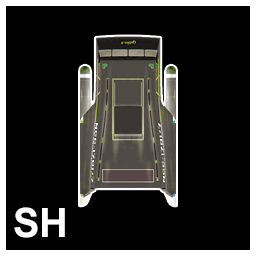
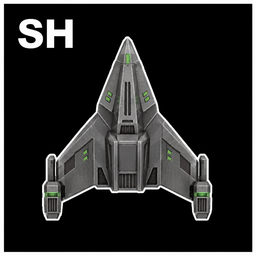
Every Klingon warship has its own counter
The E3 and E4 escort families and the G2 Police Cutter — the seven hulls
that two placeholders had been standing in for. Five of them still pointed
at e3.png or e4.png and are repointed, so the E3A aegis escort, the E4V
escort carrier and the police cutter are now distinguishable on the map
from the plain escorts they were drawn as.

An eighth picture, e4j, is the E4J penal escort, which the game has no
ship file for; parked with the other eight Klingon hulls whose art has
arrived ahead of their data.

Klingon: 35 of 38, and no shared counters anywhere in the faction. What
remains is the Base Station and the two Q-ships, which belong with the
generic markers — and the Q-ships should stay bare until a reveal state
exists, since drawing one as a Q-ship gives away the ambush it is for.

Also carries a redrawn Klingon shuttle.

diff --git a/amarillo-core/src/test/java/com/sfb/objects/TokenArtClaimedTest.java b/amarillo-core/src/test/java/com/sfb/objects/TokenArtClaimedTest.java
@@ -63,6 +63,7 @@ public class TokenArtClaimedTest {
         AWAITING_A_HULL.put("klingon/d6m.png", "D6M mauler");
         AWAITING_A_HULL.put("klingon/d7e.png", "D7E escort battlecruiser");
         AWAITING_A_HULL.put("klingon/d7v.png", "D7V carrier");
+        AWAITING_A_HULL.put("klingon/e4j.png", "E4J penal escort");
     }
 
     private static final File SHIP_DIR  = new File("../data/factions");
